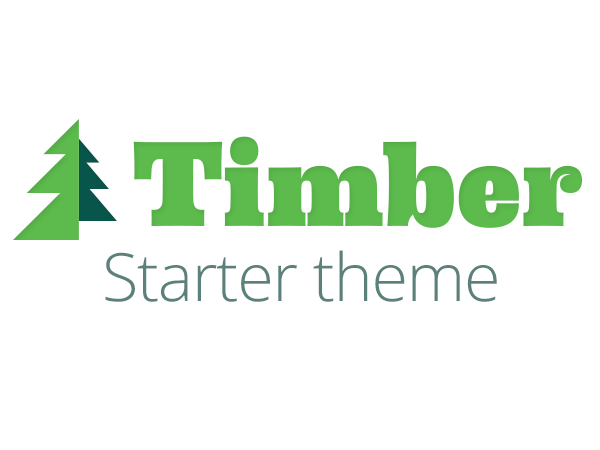
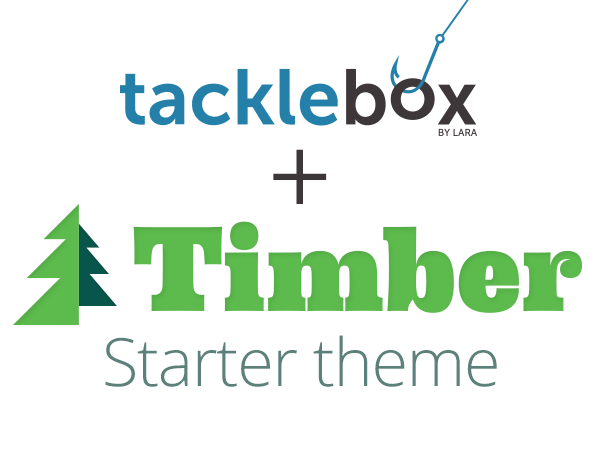
change theme name and screenshot

diff --git a/style.css b/style.css
@@ -1,5 +1,5 @@
 /*
- * Theme Name: My Timber Starter Theme
+ * Theme Name: Timber Starter Theme (Tackle Box version)
  * Description: Starter Theme to use with Timber
  * Author: Upstatement, Lara, and YOU!
 */
